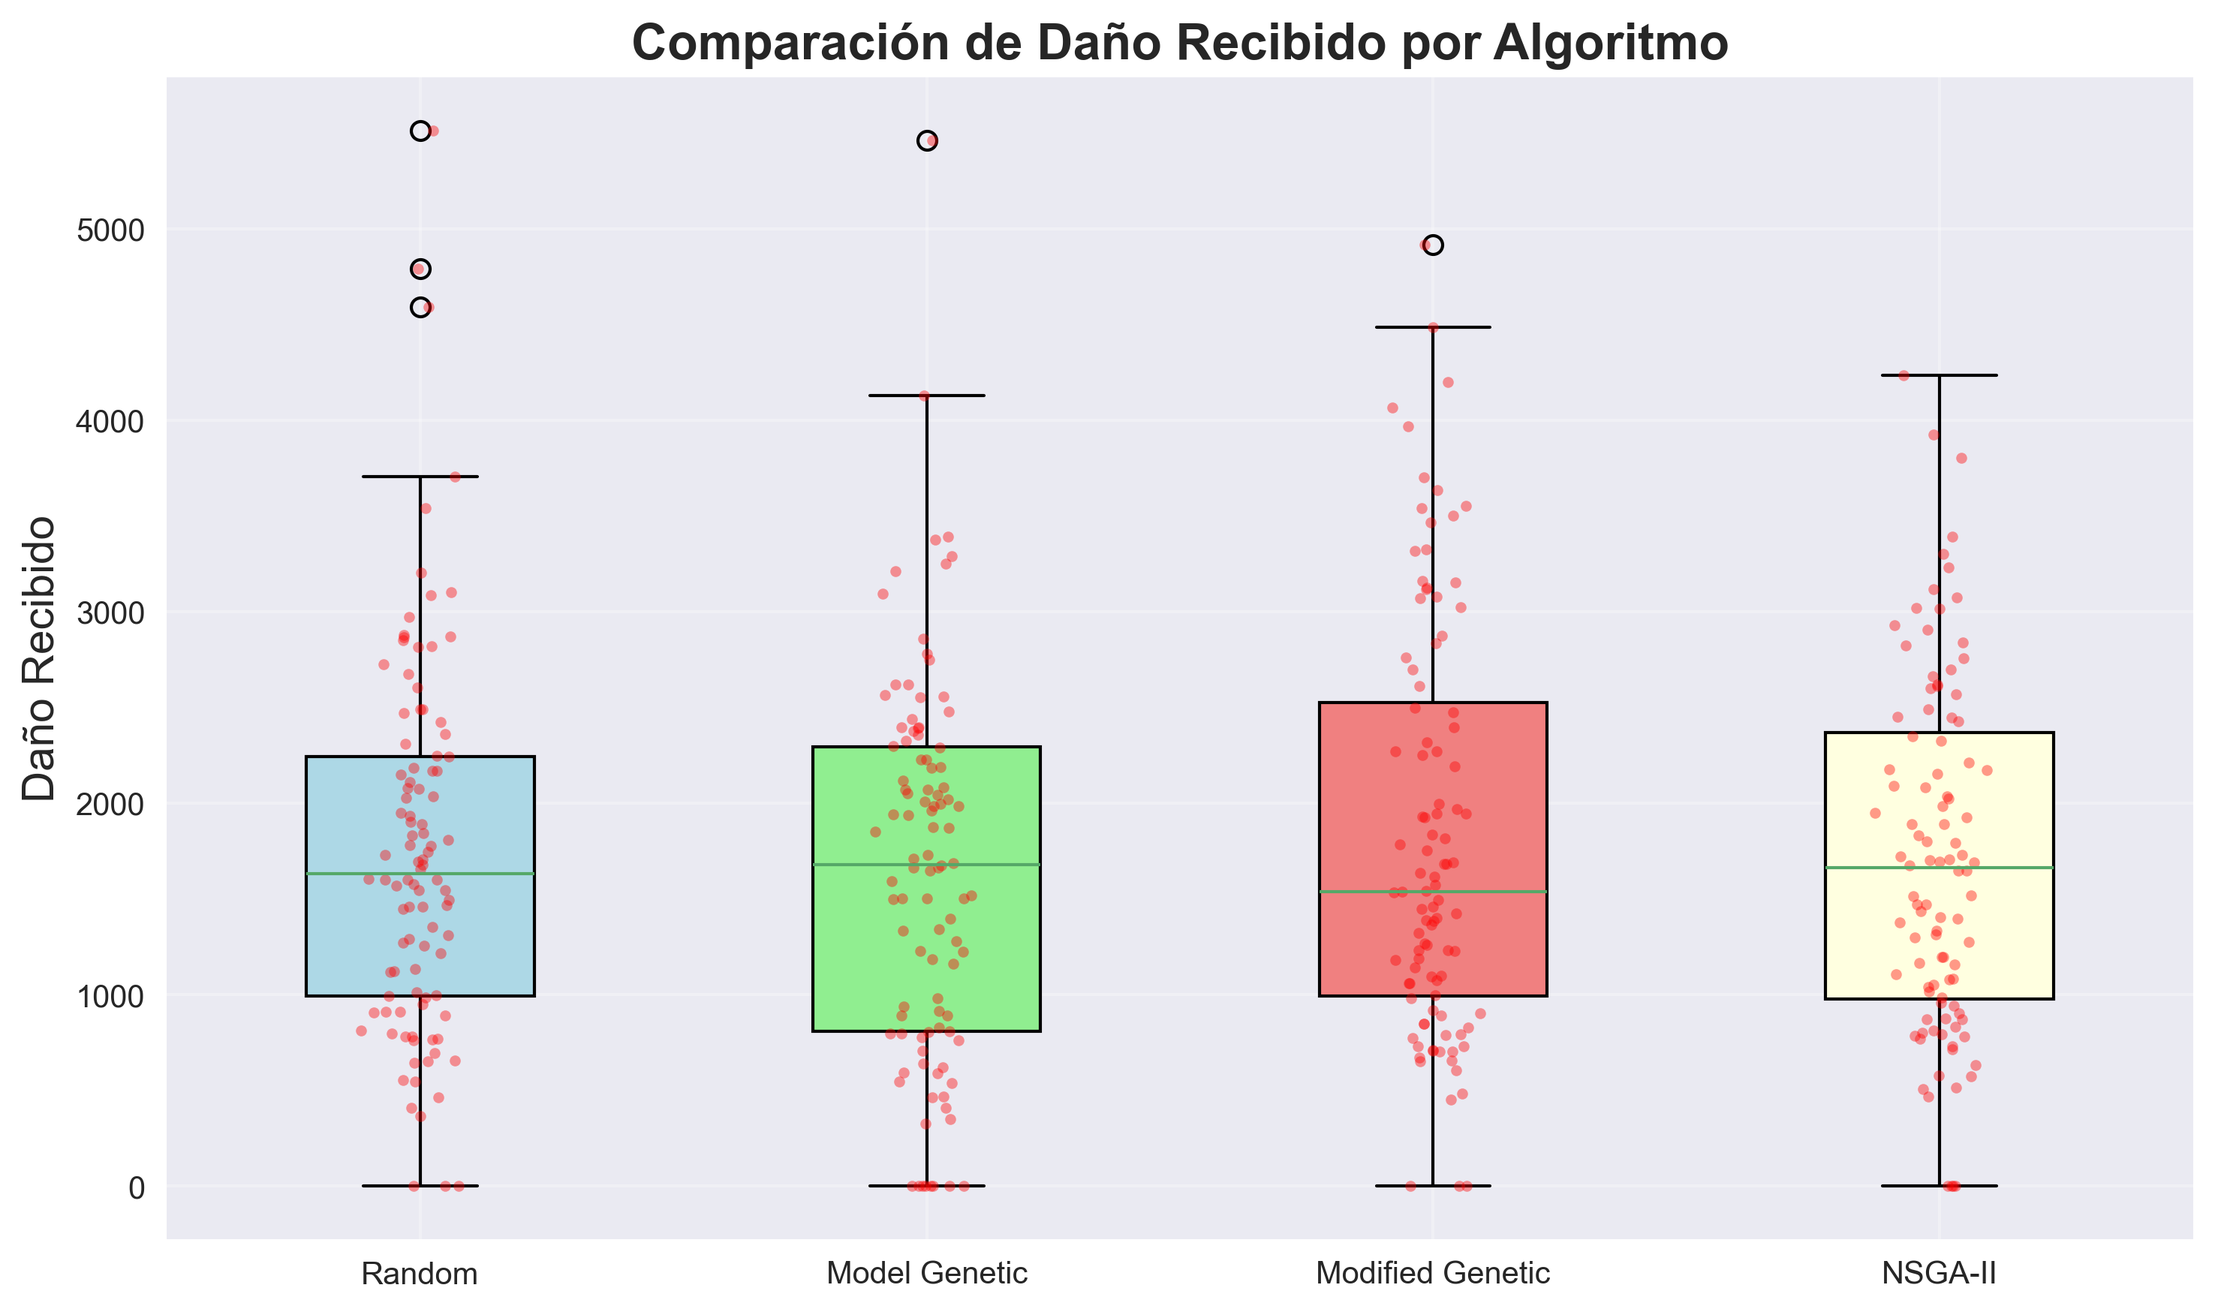
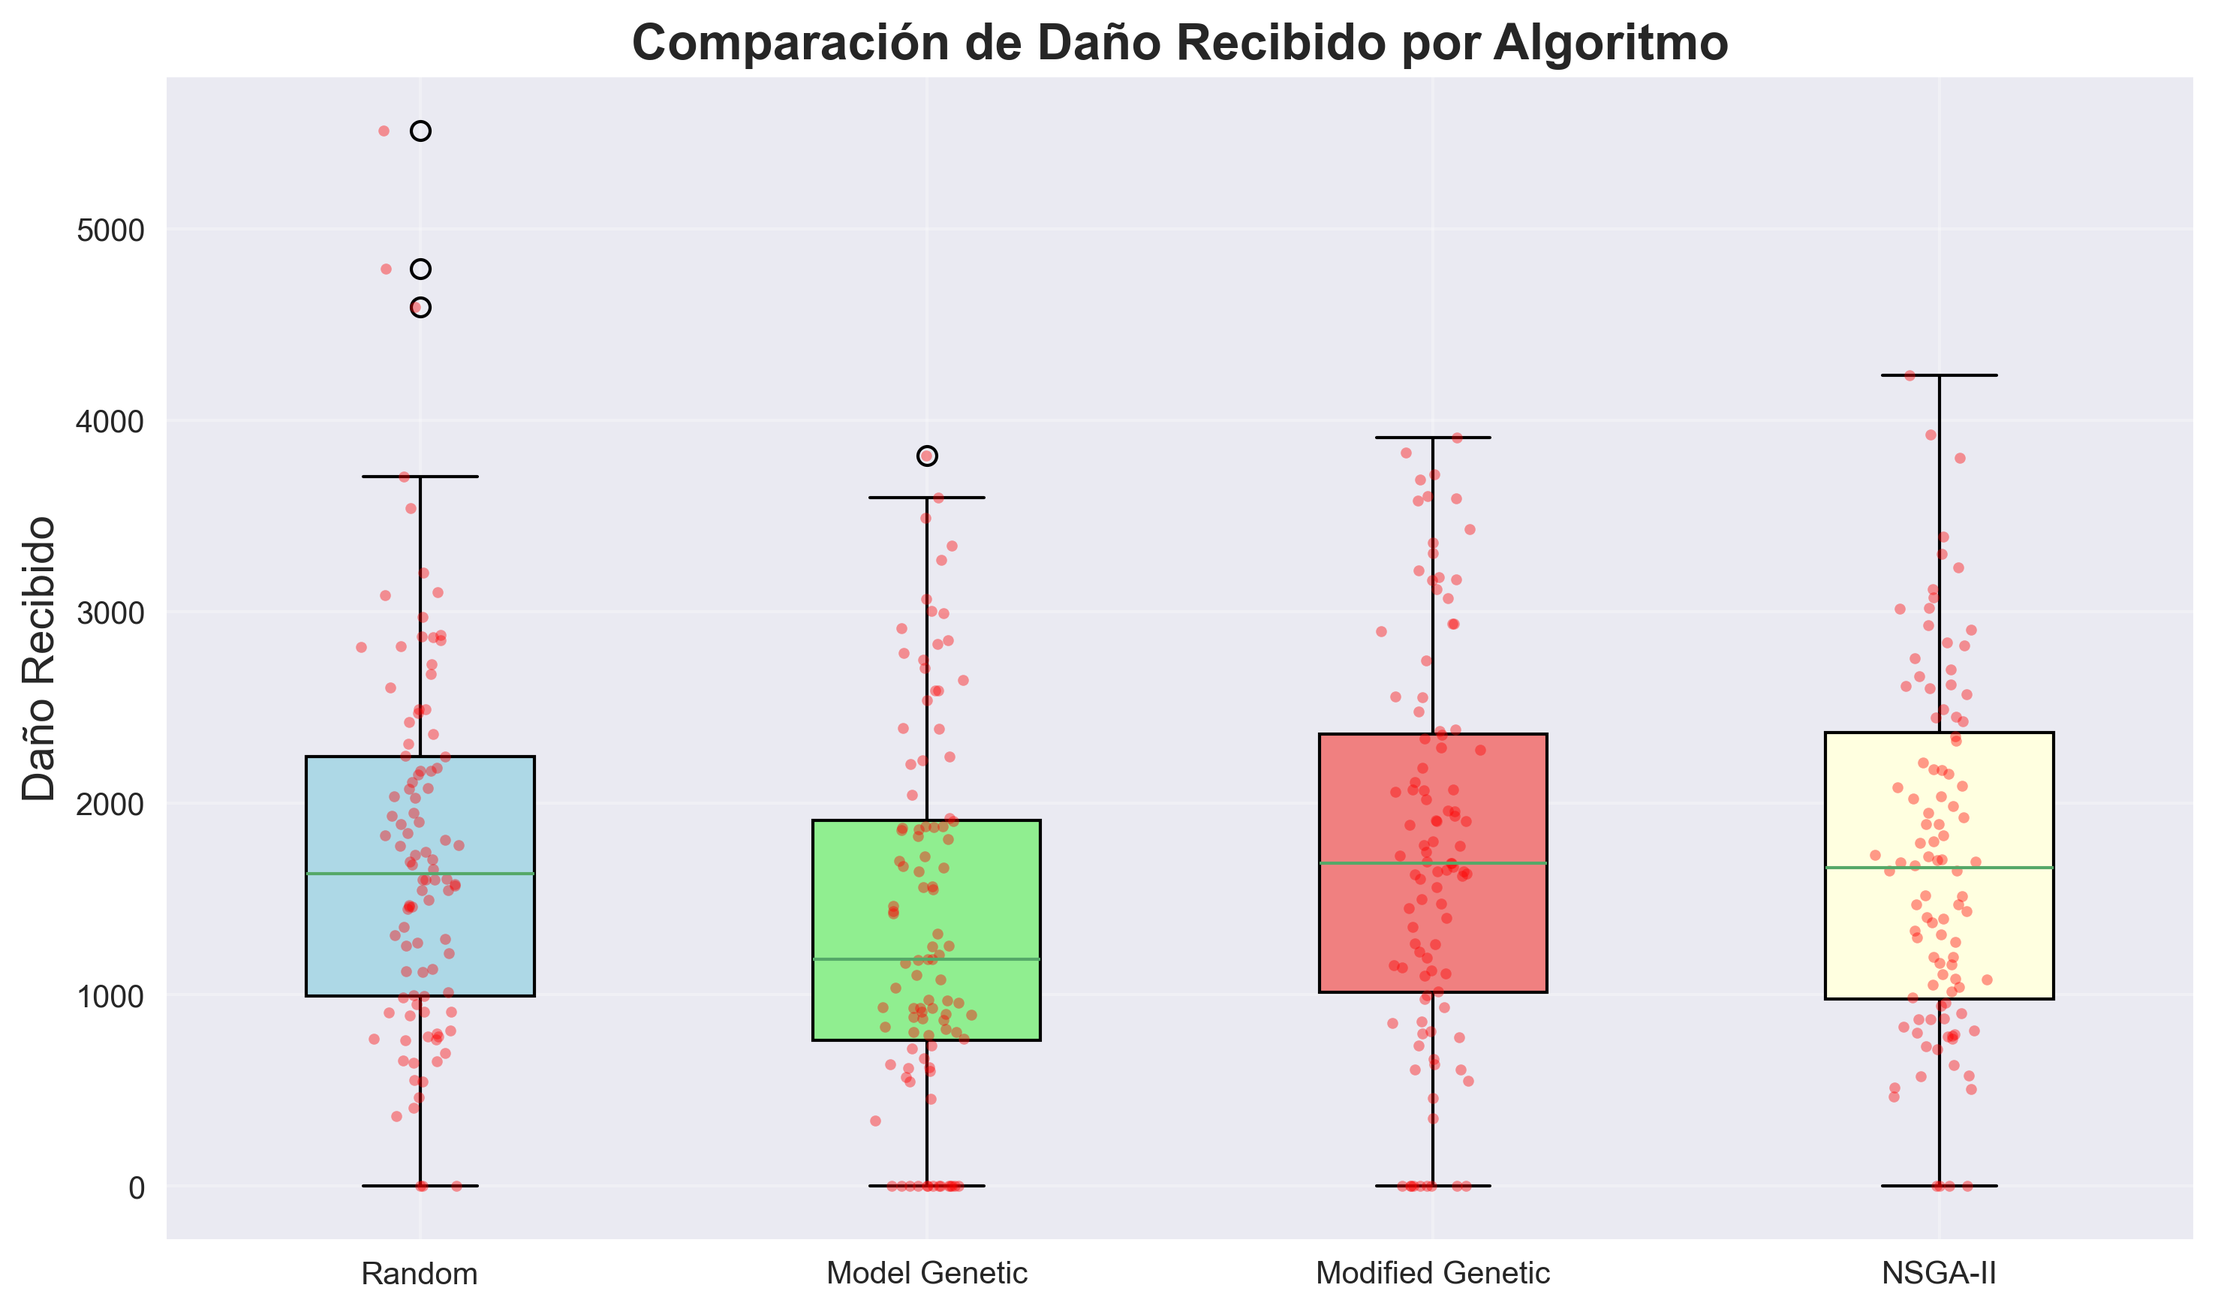
agrego plots + cambios informe

diff --git a/code/combat/combat.py b/code/combat/combat.py
@@ -341,7 +341,7 @@ def simulate_combat(party_members, enemy):
                 base_seed = 33
                 start_time = time.time()
                 
-                for i in range(100):
+                for i in range(10):
                     result = run_simulation(base_seed + i)
                     
                     if result["won"]:
@@ -379,7 +379,7 @@ def simulate_combat(party_members, enemy):
                 base_seed = 33
                 start_time = time.time()
                 
-                for i in range(100):
+                for i in range(10):
                     result = run_simulation_modified_genetic(base_seed + i)
                     
                     if result["won"]:
@@ -417,7 +417,7 @@ def simulate_combat(party_members, enemy):
                 base_seed = 33
                 start_time = time.time()
                 
-                for i in range(100):
+                for i in range(10):
                     result = run_simulation_ngsa2(base_seed + i)
                     
                     if result["won"]:

diff --git a/code/genetics/modified_genetic.py b/code/genetics/modified_genetic.py
@@ -231,7 +231,7 @@ def  crossover_two_points(parent1, parent2,makoto):
 
 def evaluate2(ind):
     #evaluate the individual using the fitness function,avoiding multiple evaluation, and using turns
-    turns,fit = fitnessF.best_fitness(ind[:])
+    turns,fit = fitnessF.best_fitness_2(ind[:])
     return turns,(ind, fit)
 
 

diff --git a/proyecto_final.md b/proyecto_final.md
@@ -66,7 +66,7 @@ El sistema de combate de Persona 3 se basa en este formato. El jugador controla 
   * *Absorbe*: en lugar de recibir daño, recuperará una cantidad de HP (generalmente el mismo valor que el daño que habría recibido o una menor cantidad).
   * *Repele*: devuelve parte del ataque al atacante (menos para los ataques de tipo "Almighty" o nuclear).
 
-En *Persona 3* existen 9 tipos de daño principales: fuego, hielo, electricidad, viento, luz, oscuridad, físico perforante, físico cortante y físico de golpe. Cada uno de estos ataques tiene una probabilidad de causar un estado alterado en el enemigo (por ejemplo, congelar, quemar, aturdir, etc).
+En *Persona 3* existen 10 tipos de daño: fuego, hielo, electricidad, viento, luz, oscuridad, nuclear, físico perforante, físico cortante y físico de golpe. Cada uno de estos ataques tiene una probabilidad de causar un estado alterado en el enemigo (por ejemplo, congelar, quemar, aturdir, etc).
 
 * **Probabilidades y azar**: el combate no es determinista, sino que cada acción tiene una chance de éxito o fallo:
   - Un ataque, ya sea físico o mágico, puede fallar o ser esquivado.
@@ -77,12 +77,14 @@ Esto significa que cada batalla tiene un componente de incertidumbre, y la estra
 
 Los personajes y enemigos tienen estadísticas que afectan estas probabilidades, como la precisión, la evasión, la resistencia a estados alterados, etc. Por ejemplo, un personaje con alta precisión tendrá más chances de acertar sus ataques, mientras que un enemigo con alta evasión será más difícil de golpear (porque esquiva más seguido). Estas probabilidades pueden modificarse durante el combate mediante habilidades especiales, ítems o efectos de estado.
 
-En el caso de Persona 3, el jugador controla a un solo personaje y los demás son controlados por el propio juego, aunque uno puede darle directrices generales, llamadas tácticas, de cómo encarar el combate. En nuestra implementación, le dejamos ciertas tácticas por defecto a los personajes no controlables.
+En el caso de Persona 3, el jugador controla completamente a un solo personaje, el protagonista, y los demás son controlados por el propio juego, aunque uno puede darle directrices generales, llamadas tácticas, de cómo encarar el combate. En nuestra implementación, le dejamos ciertas tácticas por defecto a los personajes no controlables.
+
+La forma de perder una pelea es un tanto particular en este videojuego. El jugador pierde si el protagonista (Makoto Yuki), muere, independientemente de si los otros personajes del grupo están vivos o no. Si Makoto muere, el juego termina y el jugador debe reiniciar desde el último punto de guardado. Por lo tanto, la supervivencia de el protagonista es crucial para continuar en el juego y poder ganar la batalla (lo cual sucede si la vida del o los enemigos llega a cero).
 
 ### Personajes
-El grupo de personajes o "party" está compuesto por 4 personajes:
+El grupo de personajes o "*party*" está compuesto por 4 personajes:
 
-- Makoto Yuki: El protagonista, un personaje equilibrado con habilidades de ataque y soporte. Es el personaje controlable por el jugador, por lo que sus tácticas son decididas por el algoritmo.
+- Makoto Yuki: El protagonista, un personaje equilibrado con habilidades de ataque y soporte. Es el personaje controlable por el jugador, por lo que sus tácticas son decididas por el algoritmo que esté jugando.
     - Estadísticas:
         - HP: 366
         - SP: 246
@@ -178,13 +180,13 @@ Cada ataque de 'Sleeping Table', menos 2, tiene una probabilidad de ser usado en
     - Megidola: 15%
     - Evil Touch: 20%
 Si no tiene SP suficiente para usar alguna de estas habilidades, usa su ataque básico. 
-Ghastly Wail solo lo usará si hay al menos un enemigo que tiene el estado de "miedo".
+Ghastly Wail solo lo usará si hay al menos un enemigo que tiene el estado de "miedo" en ese turno.
 
 ### Ítems disponibles
 
 Hay varios ítems disponibles en el juego, pero para este combate se utilizaron los siguientes:
 
-- **Un Soma**: Soma se utiliza en todos los miembros del grupo, restaurando por completo tanto su HP como su SP. No se puede utilizar en aliados caídos. 
+- **Un Soma**: Se utiliza en todos los miembros del grupo, restaurando por completo tanto su HP como su SP. No se puede utilizar en aliados caídos. 
 
 - **Dos Precious Egg**: Restaura completamente los SP de un aliado. No se puede utilizar en aliados caídos.
 
@@ -432,9 +434,85 @@ Con el entorno de simulación listo, se implementaron los cuatro algoritmos y la
 
 ### Resultados Obtenidos
 
-Se usaron dos funciones de fitness diferentes para los algoritmos en distinta cantidad de simulaciones. A continuación se presentan los resultados obtenidos en 100, 500 y 1000 simulaciones utilizando la función de fitness 1.
+Se usaron dos funciones de fitness diferentes para los algoritmos en distinta cantidad de simulaciones. A continuación se presentan los resultados obtenidos en 100, 500 y 1000 simulaciones.
 
-### Tabla comparativa de resultados obtenidos en 1000 simulaciones - función de fitness 1
+#### Daños Realizados
+
+- 100 simulaciones:
+Fitness 1:
+<image src="/images/fitness_1/100_iteraciones/damage_done_comparison.png" alt="Daño realizado fitness 1 en 100 iteraciones"/>
+Fitness 2:
+<image src="/images/fitness_2/100_iteraciones/damage_done_comparison.png" alt="Daño realizado fitness 2 en 100 iteraciones"/>
+
+- 500 simulaciones:
+
+<table ><tr><td> Fitness 1<img  width="400" src="/images/fitness_1/500_iteraciones/damage_done_comparison.png" ></td><td> Fitness  2<img  width="400" src="/images/fitness_2/500_iteraciones/damage_done_comparison.png"></td></tr></table>
+
+- 1000 simulaciones:
+
+<table ><tr><td> Fitness 1<img  width="400" src="/images/fitness_1/1000_iteraciones/damage_done_comparison.png" ></td><td> Fitness  2<img  width="400" src="/images/fitness_2/1000_iteraciones/damage_done_comparison.png"></td></tr></table>
+
+
+#### Daños recibidos por algoritmo:
+
+- 100 simulaciones:
+
+<table ><tr><td> Fitness 1<img  width="400" src="/images/fitness_1/100_iteraciones/damage_taken_comparison.png" ></td><td> Fitness  2<img  width="400" src="/images/fitness_2/100_iteraciones/damage_taken_comparison.png"></td></tr></table>
+
+- 500 simulaciones:
+Fitness 1: 
+<img src="/images/fitness_1/500_iteraciones/damage_taken_comparison.png" alt="Daño recibido fitness 1 en 500 iteraciones"/>
+Fitness 2:
+<img src="/images/fitness_2/500_iteraciones/damage_taken_comparison.png" alt="Daño recibido fitness 2 en 500 iteraciones"/>
+
+- 1000 simulaciones:
+Fitness 1:
+<img src="/images/fitness_1/1000_iteraciones/damage_taken_comparison.png" alt="Daño recibido fitness 1 en 1000 iteraciones"/>
+Fitness 2:
+<img src="/images/fitness_2/1000_iteraciones/damage_taken_comparison.png" alt="Daño recibido fitness 2 en 1000 iteraciones"/>
+
+#### Muertes por algoritmo:
+
+- 100 simulaciones:
+Fitness 1:
+<img src="/images/fitness_1/100_iteraciones/deaths_comparison.png" alt="Muertes fitness 1 en 100 iteraciones"/>
+Fitness 2:
+<img src="/images/fitness_2/100_iteraciones/deaths_comparison.png" alt="Muertes fitness 2 en 100 iteraciones"/>
+
+- 500 simulaciones:
+
+<table ><tr><td> Fitness 1<img  width="400" src="/images/fitness_1/500_iteraciones/deaths_comparison.png" ></td><td> Fitness  2<img  width="400" src="/images/fitness_2/500_iteraciones/deaths_comparison.png"></td></tr></table>
+
+- 1000 simulaciones:
+Fitness 1:
+<img src="/images/fitness_1/1000_iteraciones/deaths_comparison.png" alt="Muertes fitness 1 en 1000 iteraciones"/>
+Fitness 2:
+<img src="/images/fitness_2/1000_iteraciones/deaths_comparison.png" alt="Muertes fitness 2 en 1000 iteraciones"/>
+
+#### Turnos en partidas ganadas por algoritmo:
+
+- 100 simulaciones:
+Fitness 1:
+<img src="/images/fitness_1/100_iteraciones/turns_comparison.png" alt="Turnos fitness 1 en 100 iteraciones"/>
+Fitness 2:
+<img src="/images/fitness_2/100_iteraciones/turns_comparison.png" alt="Turnos fitness 2 en 100 iteraciones"/>
+
+- 500 simulaciones:
+<table ><tr><td> Fitness 1<img  width="400" src="/images/fitness_1/500_iteraciones/turns_comparison.png" ></td><td> Fitness  2<img  width="400" src="/images/fitness_2/500_iteraciones/turns_comparison.png"></td></tr></table>
+
+- 1000 simulaciones:
+<table ><tr><td> Fitness 1<img  width="400" src="/images/fitness_1/1000_iteraciones/turns_comparison.png" ></td><td> Fitness  2<img  width="400" src="/images/fitness_2/1000_iteraciones/turns_comparison.png"></td></tr></table>
+
+#### Winrate
+
+- 100 simulaciones:
+<table ><tr><td> Fitness 1<img  width="400" src="/images/fitness_1/100_iteraciones/win_rate_comparison.png" ></td><td> Fitness 2<img  width="400" src="/images/fitness_2/100_iteraciones/win_rate_comparison.png"></td></tr></table>
+- 500 simulaciones:
+<table ><tr><td> Fitness 1<img  width="400" src="/images/fitness_1/500_iteraciones/win_rate_comparison.png" ></td><td> Fitness 2<img  width="400" src="/images/fitness_2/500_iteraciones/win_rate_comparison.png"></td></tr></table>
+- 1000 simulaciones:
+<table ><tr><td> Fitness 1<img  width="400" src="/images/fitness_1/1000_iteraciones/win_rate_comparison.png" ></td><td> Fitness 2<img  width="400" src="/images/fitness_2/1000_iteraciones/win_rate_comparison.png"></td></tr></table>
+
+### Tabla comparativa de resultados obtenidos en 1000 simulaciones - función de fitness 2
 
 | Algoritmo | Tasa de Victoria (%) | Turnos Promedio (±DE) | Daño Infligido Promedio (±DE) | Daño Recibido Promedio (±DE) | Muertes Promedio (±DE) | Tiempo por Simulación (s) |
 |-----------|----------------------|-----------------------|-------------------------------|-------------------------------|------------------------|---------------------------|
@@ -443,52 +521,6 @@ Se usaron dos funciones de fitness diferentes para los algoritmos en distinta ca
 | Modified Genetic | 39.70 | 8.98 ± 3.72 | 317.51 ± 175.47 | 1769.01 ± 1064.27 | 0.85 ± 1.06 | 120.794004 |
 | NSGA-II | 34.80 | 8.26 ± 3.60 | 400.87 ± 213.41 | 1606.19 ± 952.13 | 0.82 ± 1.03 | 64.35 |
 
-### Gráficos comparativos usando función de fitness 1
-
-- Daños realizados por algoritmo:
-
-    - 100 simulaciones:
-![Resultados de daños realizados en 100 simulaciones](/images/fitness_1/100_iteraciones/damage_done_comparison.png)
-    - 500 simulaciones:
-![Resultados de daños realizados en 500 simulaciones](/images/fitness_1/500_iteraciones/damage_done_comparison.png)
-    - 1000 simulaciones:
-![Resultados de daños realizados en 1000 simulaciones](/images/fitness_1/1000_iteraciones/damage_done_comparison.png)
-
-- Daños recibidos por algoritmo:
-
-    - 100 simulaciones:
-![Resultados de daños recibidos en 100 simulaciones](/images/fitness_1/100_iteraciones/damage_taken_comparison.png)
-    - 500 simulaciones:
-![Resultados de daños recibidos en 500 simulaciones](/images/fitness_1/500_iteraciones/damage_taken_comparison.png)
-    - 1000 simulaciones:
-![Resultados de daños recibidos en 1000 simulaciones](/images/fitness_1/1000_iteraciones/damage_taken_comparison.png)
-
-- Muertes por algoritmo:
-
-    - 100 simulaciones:
-![Resultados de muertes en 100 simulaciones](/images/fitness_1/100_iteraciones/deaths_comparison.png)
-    - 500 simulaciones:
-![Resultados de muertes en 500 simulaciones](/images/fitness_1/500_iteraciones/deaths_comparison.png)
-    - 1000 simulaciones:
-![Resultados de muertes en 1000 simulaciones](/images/fitness_1/1000_iteraciones/deaths_comparison.png)
-
-- Turnos en partidas ganadas por algoritmo:
-    - 100 simulaciones:
-![Resultados de turnos en partidas ganadas en 100 simulaciones](/images/fitness_1/100_iteraciones/turns_comparison.png)
-    - 500 simulaciones:
-![Resultados de turnos en partidas ganadas en 500 simulaciones](/images/fitness_1/500_iteraciones/turns_comparison.png)
-    - 1000 simulaciones:
-![Resultados de turnos en partidas ganadas en 1000 simulaciones](/images/fitness_1/1000_iteraciones/turns_comparison.png)
-
-- Winrate por algoritmo:
-    - 100 simulaciones:
-![Resultados de winrate en 100 simulaciones](/images/fitness_1/100_iteraciones/win_rate_comparison.png)
-    - 500 simulaciones:
-![Resultados de winrate en 500 simulaciones](/images/fitness_1/500_iteraciones/win_rate_comparison.png)
-    - 1000 simulaciones:
-![Resultados de winrate en 1000 simulaciones](/images/fitness_1/1000_iteraciones/win_rate_comparison.png)
-
-A continuación se presentan los resultados obtenidos en 100, 500 y 1000 simulaciones utilizando la función de fitness 2.
 
 ### Tabla comparativa de resultados obtenidos en 1000 simulaciones - función de fitness 2
 
@@ -499,35 +531,6 @@ A continuación se presentan los resultados obtenidos en 100, 500 y 1000 simulac
 | Modified Genetic | [valor] | [valor] ± [valor] | [valor] ± [valor] | [valor] ± [valor] | [valor] ± [valor] | [valor] |
 | NSGA-II | [valor] | [valor] ± [valor] | [valor] ± [valor] | [valor] ± [valor] | [valor] ± [valor] | [valor] |
 
-### Gráficos comparativos usando función de fitness 2
-
-- Daños realizados por algoritmo:
-
-    - 100 simulaciones: ![Resultados de daños realizados en 100 simulaciones](/images/fitness_2/100_iteraciones/damage_done_comparison.png)
-    - 500 simulaciones: ![Resultados de daños realizados en 500 simulaciones](/images/fitness_2/500_iteraciones/damage_done_comparison.png)
-    - 1000 simulaciones: ![Resultados de daños realizados en 1000 simulaciones](/images/fitness_2/1000_iteraciones/damage_done_comparison.png)
-
-- Daños recibidos por algoritmo:
-
-    - 100 simulaciones: ![Resultados de daños recibidos en 100 simulaciones](/images/fitness_2/100_iteraciones/damage_taken_comparison.png)
-    - 500 simulaciones: ![Resultados de daños recibidos en 500 simulaciones](/images/fitness_2/500_iteraciones/damage_taken_comparison.png)
-    - 1000 simulaciones: ![Resultados de daños recibidos en 1000 simulaciones](/images/fitness_2/1000_iteraciones/damage_taken_comparison.png)
-
-- Muertes por algoritmo:
-
-    - 100 simulaciones: ![Resultados de muertes en 100 simulaciones](/images/fitness_2/100_iteraciones/deaths_comparison.png)
-    - 500 simulaciones: ![Resultados de muertes en 500 simulaciones](/images/fitness_2/500_iteraciones/deaths_comparison.png)
-    - 1000 simulaciones: ![Resultados de muertes en 1000 simulaciones](/images/fitness_2/1000_iteraciones/deaths_comparison.png)
-
-- Turnos en partidas ganadas por algoritmo:
-    - 100 simulaciones: ![Resultados de turnos en partidas ganadas en 100 simulaciones](/images/fitness_2/100_iteraciones/turns_comparison.png)
-    - 500 simulaciones: ![Resultados de turnos en partidas ganadas en 500 simulaciones](/images/fitness_2/500_iteraciones/turns_comparison.png)
-    - 1000 simulaciones: ![Resultados de turnos en partidas ganadas en 1000 simulaciones](/images/fitness_2/1000_iteraciones/turns_comparison.png)
-
-- Winrate por algoritmo:
-    - 100 simulaciones: ![Resultados de winrate en 100 simulaciones](/images/fitness_2/100_iteraciones/win_rate_comparison.png)
-    - 500 simulaciones: ![Resultados de winrate en 500 simulaciones](/images/fitness_2/500_iteraciones/win_rate_comparison.png)
-    - 1000 simulaciones: ![Resultados de winrate en 1000 simulaciones](/images/fitness_2/1000_iteraciones/win_rate_comparison.png)
 
 ## Análisis y Discusión de Resultados
 
